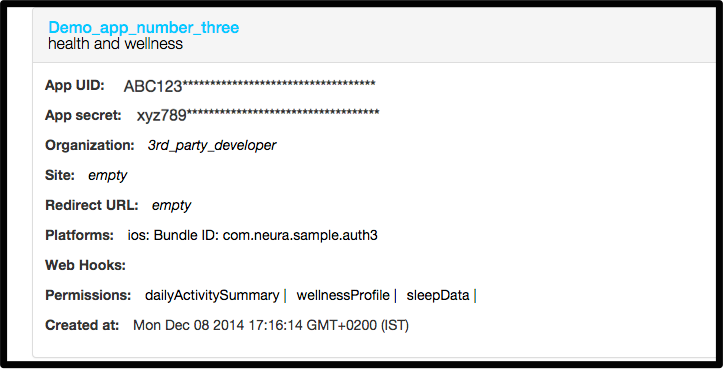
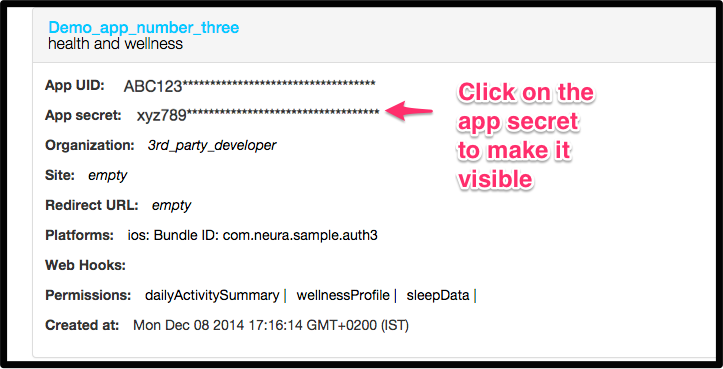
mikimer updating iOS docs

Changed region(s): [[0.6086, 0.2087, 0.8216, 0.5366], [0.5173, 0.2683, 0.6086, 0.3279]]

diff --git a/text/SDK_iOS.md b/text/SDK_iOS.md
@@ -42,8 +42,7 @@ The **Register** button is enabled only after you've completed all manditory fie
 ![register app](https://github.com/NeuraLabs/Neura_documentation/blob/master/resources/Registration_page_bottom.png)
 
 ### 2.5 Example registration
-In this example a developer from **3rd_party_developer, Inc.** created an app called **Demo_app_number_three** that relates to '*health and wellness*' and uses the iOS Bundle ID `com.neura.sample.auth3`. They have requested permission to access users' data objects: `dailyActivitySummary`, `wellnessProfile`, and `sleepData`. Neura provides the **App UID** `ABC123***********************************` and the **App secret** `xyz789***********************************`.  Again, please note that **you must click the App secret** to make it visible.  
-
+In this example a developer from **3rd_party_developer, Inc.** created an app called **Demo_app_number_three** that relates to '*health and wellness*' and uses the iOS Bundle ID `com.neura.sample.auth3`. They have requested permission to access users' data objects: `dailyActivitySummary`, `wellnessProfile`, and `sleepData`. Neura provides the **App UID** `ABC123***********************************` and the **App secret** `xyz789***********************************`.    
 
 ![register app](https://github.com/NeuraLabs/Neura_documentation/blob/master/resources/ExampleAppRegistrationiOS.png)
 
